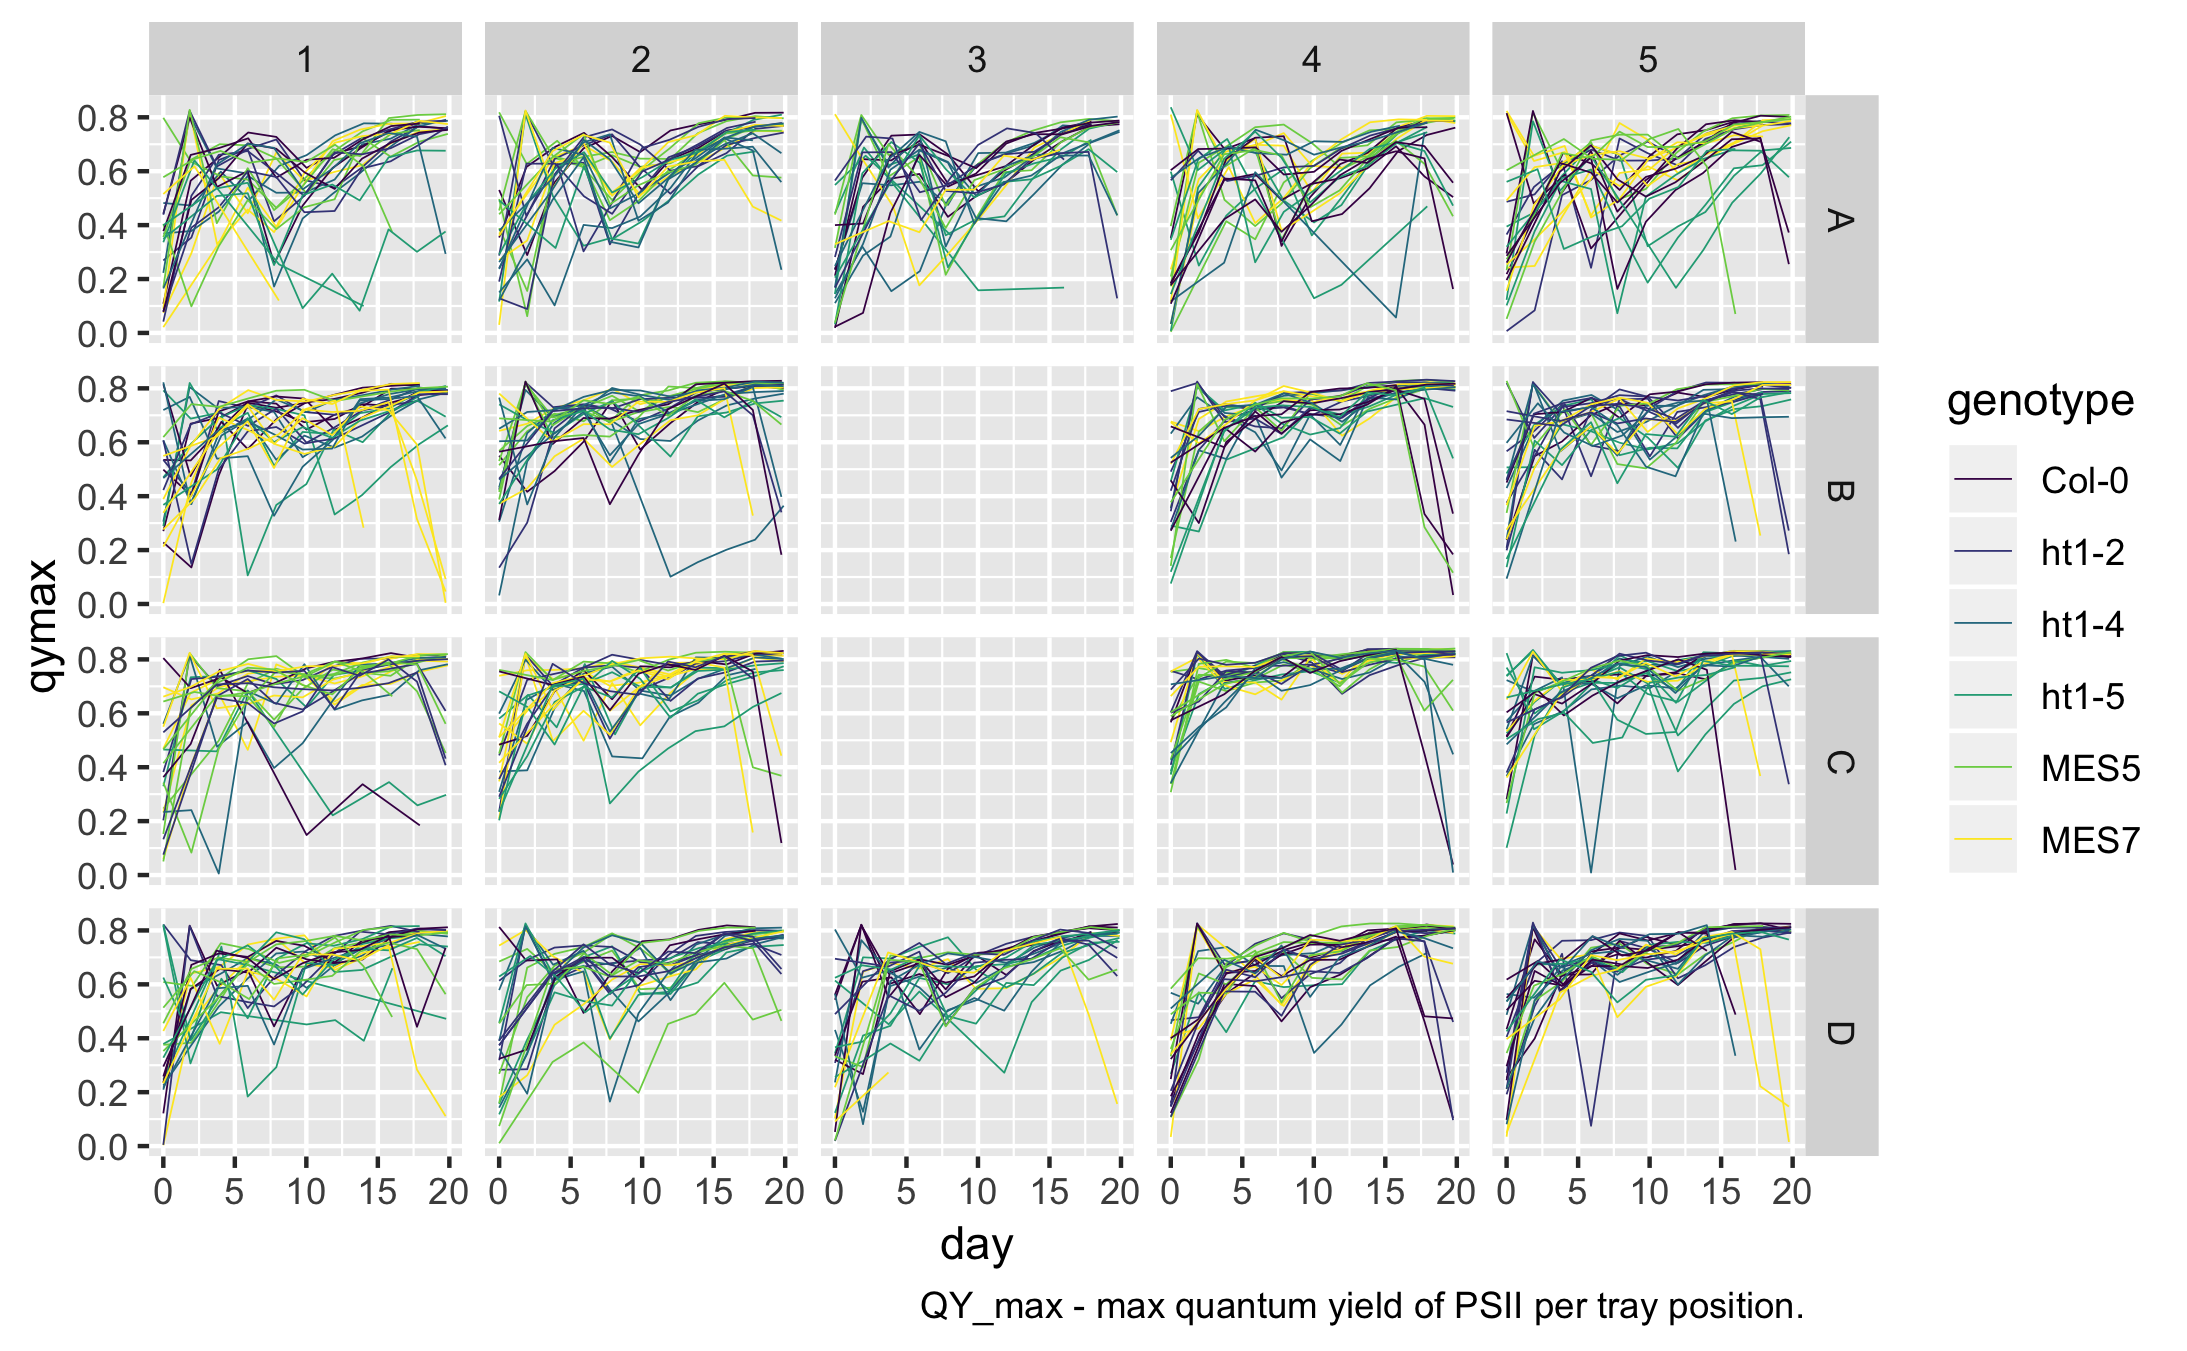
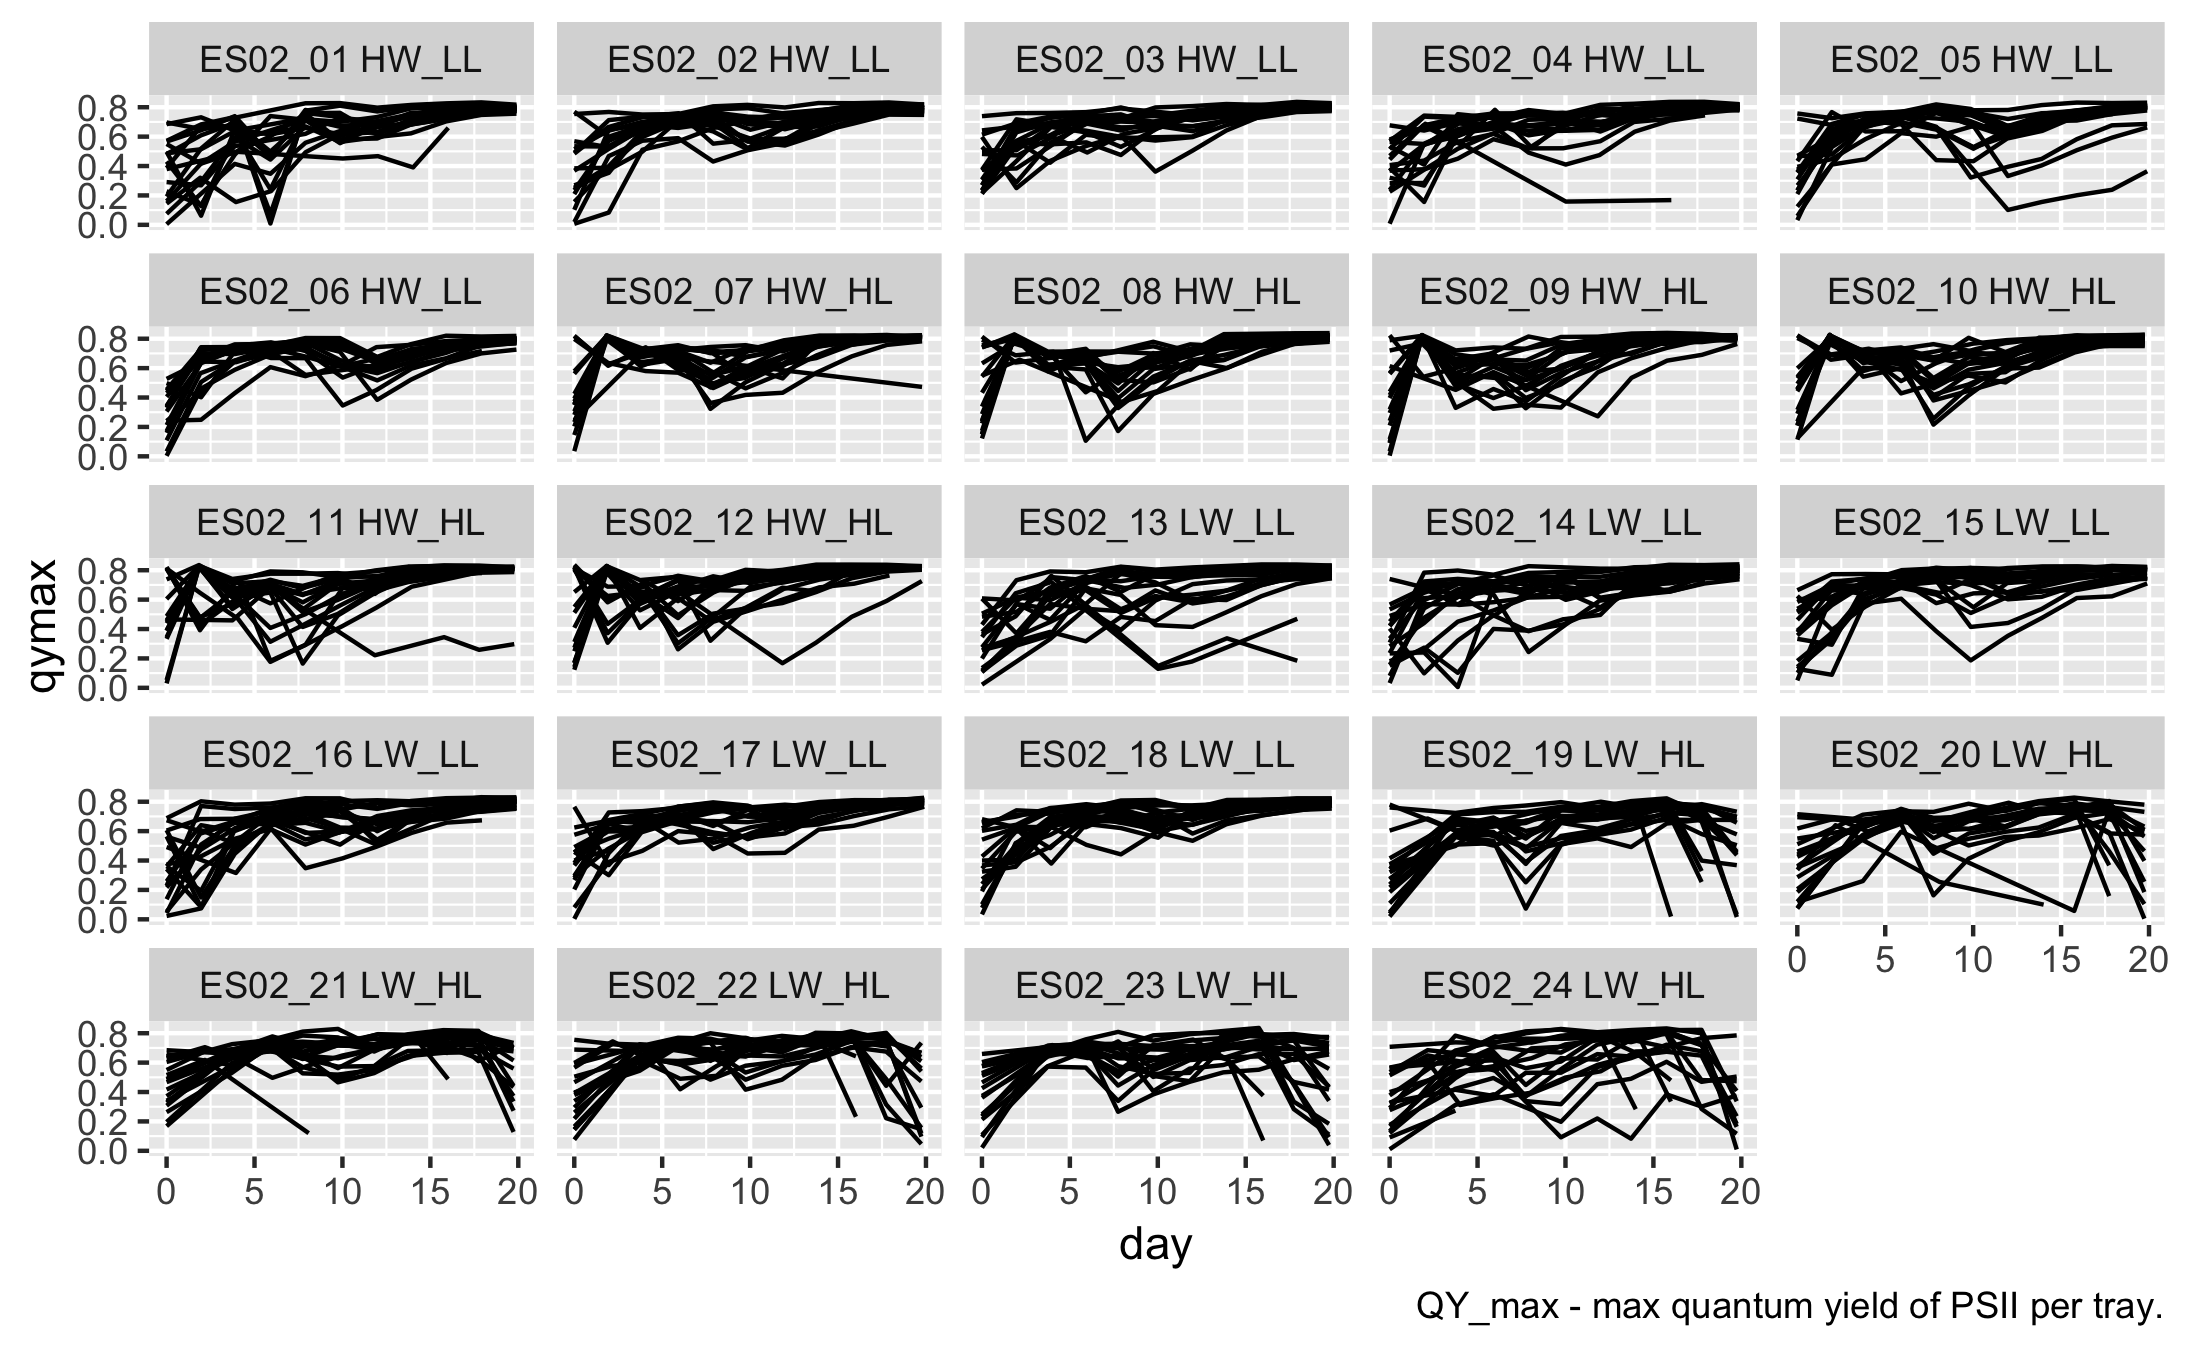
more plots

diff --git a/README.md b/README.md
@@ -26,4 +26,11 @@ Data is saved into **data** folder.
 - **scales_measure.csv** is derived from 'ScalesMeasure.xlsx'
     - Y -- weight (g)
 
+
+![qy_max](output/qymax_per_pos.png)
+
+
 ![qy_max](output/qymax_per_tray.png)
+
+
+![qy_max](output/qymax_per_env.png)
